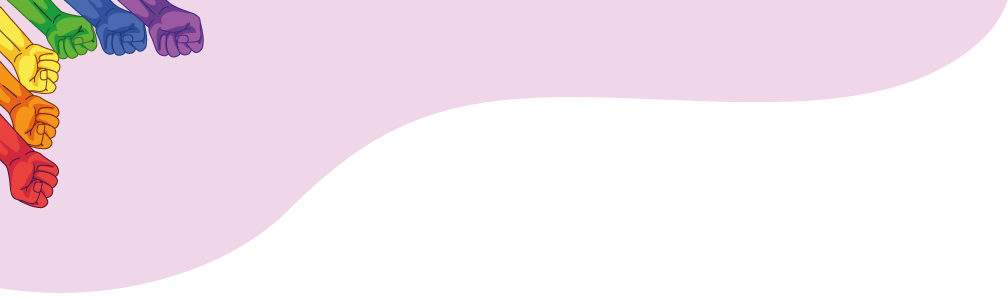
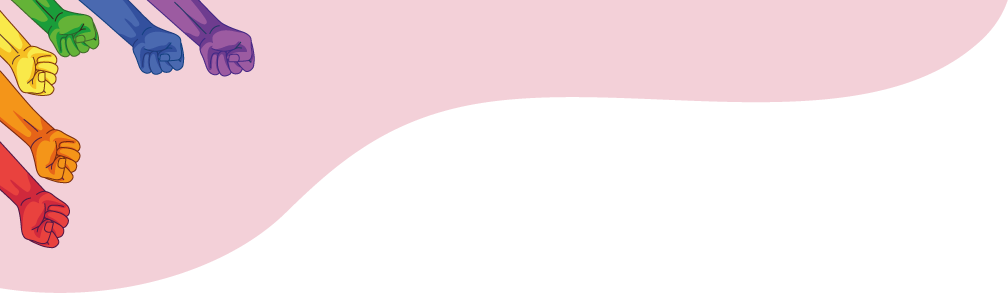
criado rota de signup + alteração no design

Changed region(s): [[0.0, 0.0, 0.2768, 0.84]]

diff --git a/src/components/layout/Navbar.jsx b/src/components/layout/Navbar.jsx
@@ -5,25 +5,15 @@ import H1 from "../typography/H1";
 import Text from "../typography/Text";
 
 import { ArrowRightEndOnRectangleIcon } from "@heroicons/react/24/solid";
+import H4 from "../typography/H4";
 
 const StyledNavbar = styled.div`
   width: 100vw;
   max-width: 1000px;
-  height: 150px;
-
-  background-color: ${(props) => props.theme.backgroundIndex};
-
-  @media (min-height: ${(props) => props.theme.HEIGHT_XL}) {
-    height: 223px;
-  }
-
-  @media (min-width: ${(props) => props.theme.HEIGHT_XL}) {
-    height: 223px;
-  }
 `;
 
 const StyledNav = styled.div`
-  background-image: url("/fundo5.png");
+  background-image: url("/fundo3.png");
   background-repeat: no-repeat;
   background-size: contain;
   background-position: center;
@@ -35,23 +25,48 @@ const StyledNav = styled.div`
   display: flex;
   flex-direction: column;
   justify-content: center;
-  align-items: center;
 
   @media (min-height: ${(props) => props.theme.HEIGHT_XL}) or 
   (min-width: ${(props) => props.theme.HEIGHT_XL}) {
-    background-image: url("/fundo4.png");
+    background-image: url("/fundo2.png");
     height: 150px;
   }
+
+  @media (max-width: 320px) {
+    height: 70px;
+  }
+
 `;
+
+const StyledH1 = styled(H1)`
+  font-size: 36px;
+  margin-top: 0px;
+  line-height: 50px;
+  text-shadow: 0px 2px 2px rgba(0, 0, 0, 0.25);
+
+  @media (max-width: 320px) {
+    font-size: 30px;
+  }
+
+  @media (min-height: ${(props) => props.theme.HEIGHT_XL}) or 
+  (min-width: ${(props) => props.theme.HEIGHT_XL}) {
+    font-size: 50px;
+  }
+
+`
+
+const StyledText = styled(Text)`
+  font-weight: bold;
+`
 
 const StyledBar = styled.div`
   width: 100vw;
   height: 50px;
+  padding: 0 30px;
 
   display: flex;
   justify-content: space-between;
   align-items: center;
-  padding: 0 30px;
 
   @media (min-height: ${(props) => props.theme.HEIGHT_XL}) or 
   (min-width: ${(props) => props.theme.HEIGHT_XL}) {
@@ -72,10 +87,10 @@ function Navbar() {
   return (
     <StyledNavbar>
       <StyledNav>
-        <H1 marginTop="0">#Social Keen</H1>
+        <StyledH1>#Social Keen</StyledH1>
       </StyledNav>
       <StyledBar>
-        <Text>Olá, @usuario!</Text>
+        <StyledText>Olá, @usuario!</StyledText>
         <Link href="/login">
           <StyledEndIcon />
         </Link>

diff --git a/src/components/cards/Post.jsx b/src/components/cards/Post.jsx
@@ -1,16 +1,19 @@
 import styled from "styled-components"
 
 const PostContainer = styled.div`
-  background-color: ${(props) => props.theme.white};
+  background-color: ${(props) => props.theme.backgroundPost};
   width: 100%;
+  min-height: 154px;
   box-sizing: border-box;
   border-radius: 5px;
+  border: 1px dashed ${(props) => props.theme.black};
   padding: 10px;
 `
 
 const StyledUsername = styled.p`
   font-weight: bold;
   font-size: 16px;
+  color: ${(props) => props.theme.primary};
 `
 
 const StyledDate = styled.p`
@@ -19,18 +22,17 @@ const StyledDate = styled.p`
 
 const StyledTextContainer = styled.div`
   margin: 20px 0;
-  overflow-y: auto;
-  max-height: 65px;
-  font-size: 12px;
+  font-size: 14px;
 `
 
 function Post() {
   return (
     <PostContainer>
-      <StyledUsername>@usuário</StyledUsername>
+      <StyledUsername>@AnaCaroline</StyledUsername>
       <StyledDate>01 de Janeiro de 2024</StyledDate>
       <StyledTextContainer>
-        Lorem ipsum dolor sit amet, consectetur adipiscing elit. Duis sodales ut nunc non suscipit. Ut faucibus justo ac ligula feugiat faucibus.Lorem ipsum dolor sit amet, consectetur adipiscing elit. Duis sodales ut nunc non suscipit. Ut faucibus justo ac ligula feugiat faucibus. Lorem ipsum dolor sit amet, consectetur adipiscing elit. Duis sodales ut nunc non suscipit. Ut faucibus justo ac ligula feugiat faucibus.
+        FRASE DE EFEITO!
+        Frase de Efeito 2
       </StyledTextContainer>
     </PostContainer>
   )

diff --git a/pages/index.jsx b/pages/index.jsx
@@ -8,29 +8,46 @@ import H3 from "../src/components/typography/H3";
 import Link from "next/link";
 
 const Body = styled.div`
-  background-color: ${(props) => props.theme.backgroundIndex};
+  background-color: ${(props) => props.theme.white};
+  overflow-y: auto;
 `
 
 const Content = styled.div`
-  background-image: url("/fundo3.png");
-  background-repeat: repeat;
-  background-size: contain;
-
   width: 100vw;
   max-width: 1000px;
   height: 100%;
   overflow-y: auto;
+
+  @media (min-width: ${(props) => props.theme.HEIGHT_XL}) {
+    background-size: 25% 15%;
+  }
 `;
 
 const RefreshPosts = styled.div`
   text-align: center;
   margin-bottom: 20px;
+
+  @media (min-width: ${(props) => props.theme.HEIGHT_XL}) {
+    margin-bottom: 30px;
+  }
+`
+
+const StyledH3 = styled(H3)`
+  margin: 30px 0;
+
+  @media (min-width: ${(props) => props.theme.HEIGHT_XL}) {
+    margin: 40px 0;
+  }
 `
 
 const Posts = styled.div`
   display: flex;
   flex-direction: column;
   gap: 15px;
+
+  @media (min-width: ${(props) => props.theme.HEIGHT_XL}) {
+    gap: 25px;
+  }
 `
 
 function HomePage() {
@@ -40,7 +57,7 @@ function HomePage() {
       <Content>
         <PostContainer>
           <CreatePost />
-          <H3>Últimas postagens</H3>
+          <StyledH3>Últimas postagens:</StyledH3>
           <RefreshPosts>
             <Link href="#">Carregar novas postagens</Link>
           </RefreshPosts>

diff --git a/src/components/typography/H1.jsx b/src/components/typography/H1.jsx
@@ -1,23 +1,27 @@
 import styled from "styled-components";
 
 const H1 = styled.h1`
-  font-family: "Alfa Slab One";
-  font-weight: 400;
-  font-size: 30px;
+  font-family: "Barlow Condensed", sans-serif;
+  font-size: 40px;
+  font-weight: 500;
   text-align: center;
   text-shadow: 0px 2px 2px rgba(0, 0, 0, 0.25);
   color: ${(props) => props.theme.primary};
   line-height: 58px;
   height: 50px;
-  margin-top: ${(props) => (props.marginTop ? props.marginTop : '60px')};
+  margin-top: 50px;
 
   @media (min-width: ${(props) => props.theme.WIDTH_XL}) {
-    font-size: 50px;
+    font-size: 70px;
+    height: 60px;
+    line-height: 40px;
+    margin-top: 0;
   }
 
   @media (min-height: ${(props) => props.theme.HEIGHT_XL}) and
   (min-width: 760px) {
-    font-size: 40px;
+    font-size: 60px;
+    height: 60px;
   }
 `
 

diff --git a/pages/_document.jsx b/pages/_document.jsx
@@ -5,9 +5,9 @@ class NewDocument extends Document {
     return (
       <Html>
         <Head>
-          <link rel="preconnect" href="https://fonts.googleapis.com" />
-          <link rel="preconnect" href="https://fonts.gstatic.com" />
-          <link href="https://fonts.googleapis.com/css2?family=Alfa+Slab+One&family=Poppins:wght@200;400;700;800&display=swap" rel="stylesheet" />
+        <link rel="preconnect" href="https://fonts.googleapis.com" />
+        <link rel="preconnect" href="https://fonts.gstatic.com" crossorigin />
+        <link href="https://fonts.googleapis.com/css2?family=Barlow+Condensed:wght@100;200;300;400;500;600;700;800;900&family=Poppins:wght@100;200;300;400;500;600;700;800;900&display=swap" rel="stylesheet" />
         </Head>
         <body>
           <Main />

diff --git a/src/components/cards/CreatePost.jsx b/src/components/cards/CreatePost.jsx
@@ -5,7 +5,7 @@ import Button from "../inputs/Button";
 import Text from "../typography/Text";
 
 const PostBox = styled.div`
-  background-color: ${(props) => props.theme.white};
+  background-color: ${(props) => props.theme.backgroundPost};
   width: 100%;
   box-sizing: border-box;
   border: 1px dashed ${(props) => props.theme.black};
@@ -23,7 +23,7 @@ const TextContainer = styled.div`
 
   @media (min-width: ${(props) => props.theme.HEIGHT_XL}) or
   (min-height: ${(props) => props.theme.HEIGHT_XL}) {
-    margin: 40px;
+    margin: 0 40px;
   }
 `
 

diff --git a/pages/_app.jsx b/pages/_app.jsx
@@ -27,6 +27,21 @@ const GlobalStyle = createGlobalStyle`
   a:hover {
     color: ${(props) => props.theme.primaryHover};
   }
+
+  *::-webkit-scrollbar {
+      width: 10px;
+  }
+
+  *::-webkit-scrollbar-track {
+      background: ${(props) => props.theme.white};
+      border-radius: 10px;
+  }
+
+  *::-webkit-scrollbar-thumb {
+      background-color: ${(props) => props.theme.black};
+      border-radius: 10px;
+      border: none;
+  }
 `;
 
 function App({ Component, pageProps }) {

diff --git a/src/components/typography/H3.jsx b/src/components/typography/H3.jsx
@@ -4,18 +4,16 @@ const H3 = styled.h3`
   font-family: "Poppins";
   font-style: normal;
   font-weight: 700;
-  font-size: 26px;
-  line-height: 39px;
+  font-size: 24px;
   color: ${(props) => props.theme.black};
-  margin: 30px 0;
 
   @media (min-width: ${(props) => props.theme.WIDTH_XL}) {
-    font-size: 50px;
+    font-size: 26px;
   }
 
   @media (min-height: ${(props) => props.theme.HEIGHT_XL}) and 
   (min-width: 760px) {
-    font-size: 40px;
+    font-size: 26px;
   }
 `;
 

diff --git a/src/components/typography/H2.jsx b/src/components/typography/H2.jsx
@@ -1,15 +1,16 @@
 import styled from "styled-components";
 
 const H2 = styled.h2`
-  font-size: 26px;
+  font-size: 24px;
   text-align: center;
 
-  @media (min-width: ${(props) => props.theme.WIDTH_XL}) {
+  @media (min-width: ${(props) => props.theme.WIDTH_XL}) or
+  (min-height: ${(props) => props.theme.HEIGHT_XL}) {
     font-size: 36px;
   }
 
   @media (max-width: 320px) {
-    font-size: 23px;
+    font-size: 22px;
   }
 `
 

diff --git a/pages/signup.jsx b/pages/signup.jsx
@@ -39,8 +39,8 @@ const FormContainer = styled.div`
   }
 
   @media (min-width: 760px) and (min-height: 1000px) {
-    margin-top: 100px;
-    gap: 100px;
+    margin-top: 70px;
+    gap: 70px;
   }
 `;
 
@@ -53,7 +53,7 @@ const Form = styled.form`
   flex-direction: column;
   justify-content: center;
   align-items: center;
-  gap: 30px;
+  gap: 25px;
 
   width: 85%;
 

diff --git a/src/theme.js b/src/theme.js
@@ -1,11 +1,12 @@
 const theme = {
   primary: '#E85972',
   primaryHover: '#E4516B',
+  backgroundPost: "#FFFFFF",
   backgroundBody: '#E4E4E4',
-  backgroundIndex: '#EAEAEA',
+  backgroundIndex: '#F8F8F8',
   inputColor: '#6c6b6c',
   black: '#3A3A3A',
-  white: '#FFFFFF',
+  white: '#F6F1E9',
 
   WIDTH_XL: '1025px',
   HEIGHT_XL: '1000px',

diff --git a/src/components/layout/ImageWithSpace.jsx b/src/components/layout/ImageWithSpace.jsx
@@ -84,7 +84,7 @@ export default function ImageWithSpace({ children }) {
     <StyledFlex>
       <StyledHead>
         <H1>#Social Keen</H1>
-        <H4>Comunidade focada no público Queer</H4>
+        <H4>Foco no público LGBTQIA+</H4>
       </StyledHead>
 
       <StyledBody>{children}</StyledBody>
